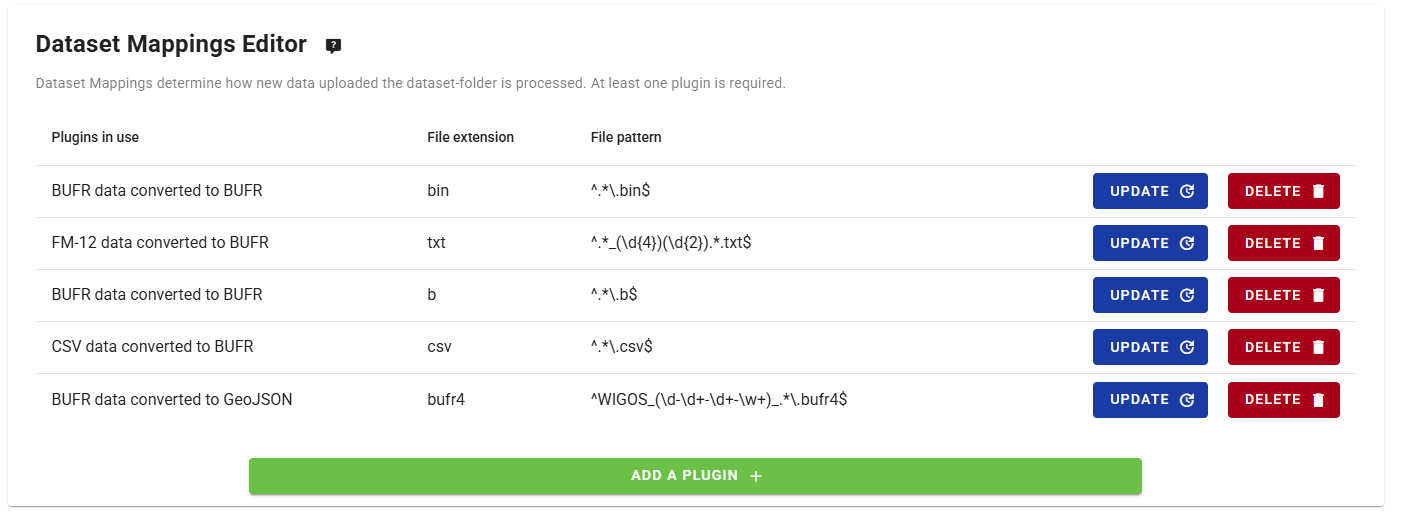
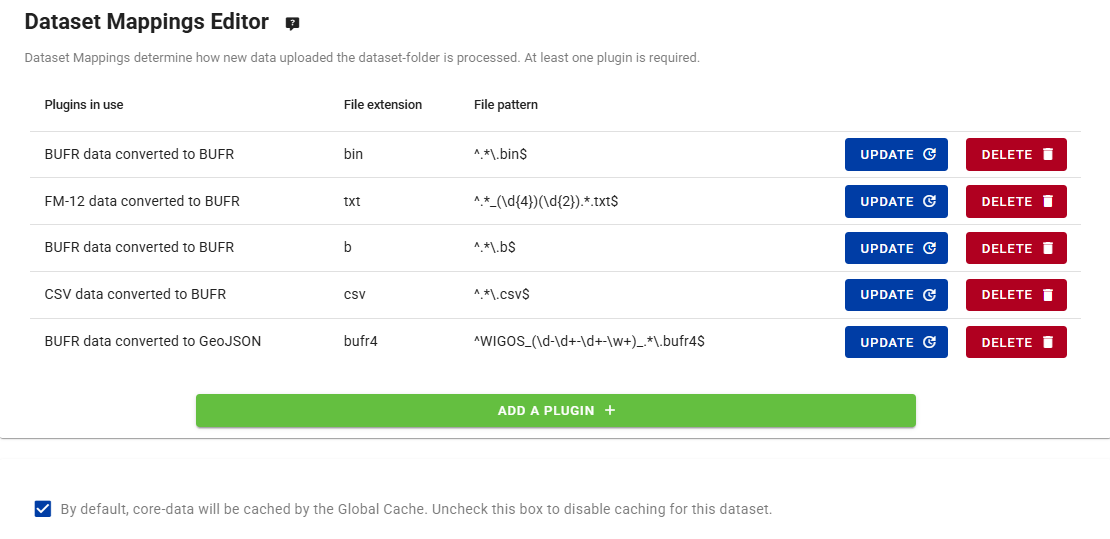
prepare docs update (#1033)
* prepare docs update

* add new troubleshooting section

* update list of containers

* fix troubleshooting, update screenshots

* update screenshot

* improve text around security

* updates

* align with WMO webpage

* add bufr-overrides example

* mention option to disable caching

* Update troubleshooting.rst

* Update BUFR-overrides explanation in documentation

Clarify the usage of BUFR-overrides in the documentation.

* Update administration.rst

* Revise WIS2 documentation for clarity and detail

Reworded and clarified sections about WIS2, including its objectives and principles.

* Update getting-started.rst

* Fix formatting and wording in public-services-setup.rst

* Update setup-datasets.rst

* fix minor grammar issue

---------

diff --git a/docs/source/community/troubleshooting.rst b/docs/source/community/troubleshooting.rst
@@ -74,6 +74,8 @@ Please check the logs for the following containers:
 - `wis2box-management`
 - `wis2box-minio`
 - `wis2box-api`
+- `elasticsearch`
+- `mosquitto`
 
 Common causes: 
 
@@ -160,3 +162,105 @@ If the wis2box UI is available but no datasets are visible, and the message ``Di
 This means the collection ``discovery-metadata`` in the wisbox API is empty, due to no datasets having been created or Docker volume ``wis2box_project_es-data`` was removed.
 
 Consult the user guide for instructions on creating datasets.
+
+Elasticsearch not starting: "java.lang.OutOfMemoryError: Java heap space"
+-------------------------------------------------------------------------
+
+If you notice Elasticsearch failing to start and the logs contain the message ``java.lang.OutOfMemoryError: Java heap space``, 
+this indicates that the Elasticsearch container does not have enough memory allocated to it.
+
+You can edit the Edit the Elasticsearch configuration in ``docker-compose.yml`` to increase the memory assigned to Elasticsearch as follows:
+
+First stop the wis2box-stack:
+
+.. code-block:: bash
+
+   python3 wis2box-ctl.py stop
+
+Then edit docker-compose.yml and replace:
+
+.. code-block:: yaml
+
+   - "ES_JAVA_OPTS=-Xms512m -Xmx512m"
+
+with:
+
+.. code-block:: yaml
+
+   - "ES_JAVA_OPTS=-Xms1g -Xmx1g"
+
+and also  replace:
+
+.. code-block:: yaml
+
+   mem_limit: 1.5g
+   memswap_limit: 1.5g
+
+with:
+
+.. code-block:: yaml
+
+   mem_limit: 2g
+   memswap_limit: 2g
+
+Then start the wis2box-stack again:
+
+.. code-block:: bash
+
+   python3 wis2box-ctl.py start
+
+Make sure that your host has enough free memory for the new settings.
+
+MinIO unable to start SFTP server to sftp id_rsa missing
+---------------------------------------------------------
+
+When the following error appears in the logs of the `wis2box-minio` container:
+
+.. code-block:: bash
+
+   FATAL unable to start SFTP server: invalid arguments passed, private key file is not accessible: open /home/miniouser/.ssh/id_rsa: no such file or directory
+
+It means that the SSH keys required to start the SFTP server are missing.
+
+If you used the `wis2box-create-config.py` script to create your configuration files, the SSH keys are generated automatically in the directory `.ssh` inside the directory defined by `WIS2BOX_HOST_DATADIR` (from wis2box-1.2)
+
+If required, manually create the SSH keys as follows:
+
+.. code-block:: bash
+
+   mkdir -p <your-wis2box-host-datadir>/.ssh
+   ssh-keygen -t rsa -b 4096 -f <your-wis2box-host-datadir>/minio/.ssh/id_rsa -N "" -q
+
+Make sure to replace ``<your-wis2box-host-datadir>`` with the actual path defined by ``WIS2BOX_HOST_DATADIR`` in `wis2box.env`.
+
+SFTP support in MinIO can be disabled to allow wis2box to start without SSH keys. Data ingest via SFTP will not be possible as a result.
+
+To do so, first stop wis2box:
+
+.. code-block:: bash
+
+   python3 wis2box-ctl.py stop
+
+Then edit ``docker-compose.yml`` and replace:
+
+.. code-block:: yaml
+
+   command: server --quiet --console-address ":9001" --sftp="address=:8022" --sftp="ssh-private-key=/home/miniouser/.ssh/id_rsa" /data
+
+With:
+
+.. code-block:: yaml
+
+   command: server --quiet --console-address ":9001" /data
+
+After making the changes, start wis2box again:
+
+.. code-block:: bash
+
+   python3 wis2box-ctl.py start
+
+And check if the all the services are now running as expected:
+
+.. code-block:: bash
+
+   python3 wis2box-ctl.py status

diff --git a/docs/source/reference/wis2.rst b/docs/source/reference/wis2.rst
@@ -1,24 +1,25 @@
 WIS2
 ====
 
-The `WMO Information System`_ is a coordinated global infrastructure responsible for telecommunications
-and data management functions and is owned and operated by WMO Members.
+The `WMO Information System 2.0`_ (WIS2) is the framework for WMO data sharing for all WMO domains and disciplines. The Commission for Observation, Infrastructure and Information Systems (`INFCOM`_) approved the technical specifications of WIS 2.0 and its implementation plan in October 2022.
 
-WIS provides an integrated approach suitable for all WMO Programmes to meet the requirements for routine
-collection and automated dissemination of observed data and products, as well as data discovery, access,
-and retrieval services for weather, climate, water, and related data produced by centres and Member
-countries in the framework of any WMO Programme. It is capable of exchanging large data volumes, such
-as new ground and satellite-based systems, finer resolutions in numerical weather prediction, and
-hydrological models and their applications. These data and products must be available to National
-Hydrological and Meteorological Services (NHMS), but also national disaster authorities for more timely
-alerts where and when needed.
+WIS2 will gradually replace the Global Telecommunication System (GTS).
 
-WIS is a vital data communications backbone for integrating the diverse real-time and non-real-time high
-priority data sets, regardless of location.
+WIS2 was designed to support the WMO Unified Data policy and the Global Basic Observing Network (GBON), and to make data sharing between WMO Members simple, effective and cost-efficient.
+The idea that *no Member should be left behind* and the objective of lowering the barrier to adoption has been at the core of WIS2 development.
 
-Further documentation on WIS2 can be found at the following links:
+These objectives inspire the principles underpinning the WIS2 technical framework, such as adopting Open Standards and Web technologies to facilitate sharing of increasing variety and volume of real-time data.  
 
-* `WIS Overview`_
+The `Manual`_ on the WMO Information System (WMO-No.1060), Volume II contains standard and recommended practices, procedures, and specifications.
 
-.. _`WMO Information System`: https://community.wmo.int/activity-areas/wis
-.. _`WIS Overview`: https://community.wmo.int/activity-areas/wis/wis-overview
+The `Guide`_ to the WMO Information System (WMO-No.1061), Volume II provides additional information concerning practices, procedures, 
+and specifications that Members are invited to follow or implement in establishing and conducting their arrangements in compliance with the WMO Technical Regulations 
+and in developing meteorological and hydrological data services.
+
+For more information on WIS2, please refer to the `WIS2 Overview`_ on the WMO community website.
+
+.. _`WMO Information System 2.0`: https://community.wmo.int/site/knowledge-hub/programmes-and-initiatives/wmo-information-system-wis
+.. _`INFCOM`: https://community.wmo.int/site/knowledge-hub/governance/infcom
+.. _`Manual`: https://community.wmo.int/node/37558
+.. _`Guide`: https://community.wmo.int/node/37510
+.. _`WIS2 Overview`: https://community.wmo.int/site/knowledge-hub/programmes-and-initiatives/wmo-information-system-wis/wis2-overview

diff --git a/docs/source/user/getting-started.rst b/docs/source/user/getting-started.rst
@@ -16,9 +16,54 @@ When choosing the environment for the wis2box, consider the following:
 * In order for the wis2box instance to function as a WIS2 Node, HTTP and MQTT ports on the instance need to be accessible over the public Internet
 * Ensure that the system providing input data can access the wis2box instance
 
-.. note::
-    
-    Before exposing the wis2box to the Internet, please review the 'security considerations' section in the :ref:`public-services-setup` section. 
+.. important::
+
+  When using a wis2box instance as a WIS2 Node, it is **not recommended to use a host within your internal network**. Since a wis2box instance must be exposed to the public Internet in order to operate as a WIS2 Node, it is strongly recommended to decouple deployment from your internal network.
+
+  Please consider setting up wis2box on cloud infrastructure or in another suitably isolated, Internet-facing environment such as a **perimeter network (DMZ)** and setup a secure method to **push** data from your internal network to the wis2box instance.
+
+  Before exposing the wis2box to the Internet, please review the 'security considerations' section in the :ref:`public-services-setup` section. 
+
+
+External resources used by wis2box
+----------------------------------
+
+Make sure that wis2box can access content from *GitHub*, *GitHub Container Registry*, and *Docker Hub*; to pull the required Docker images and updates.
+
+To verify WIS2 compliance, wis2box will use configurations, schemas and supporting files on *iana.org* and *codes.wmo.int* which needs to be reachable from the wis2box instance at runtime.
+
+The following domains must be reachable from your instance for wis2box to function correctly:
+
+.. list-table::
+  :header-rows: 1
+  :widths: 30 70
+
+  * - Domain
+    - Description
+  * - ``ghcr.io``
+    - GitHub Container Registry
+  * - ``pkg-containers.githubusercontent.com``
+    - GitHub Packages for containers
+  * - ``containers.githubusercontent.com``
+    - GitHub-hosted container resources
+  * - ``github.com``
+    - GitHub repository access
+  * - ``api.github.com``
+    - GitHub API access
+  * - ``registry-1.docker.io``
+    - Docker Hub registry
+  * - ``auth.docker.io``
+    - Docker Hub authentication
+  * - ``index.docker.io``
+    - Docker Hub index
+  * - ``hub.docker.com``
+    - Docker Hub website
+  * - ``iana.org``
+    - Standards reference
+  * - ``codes.wmo.int``
+    - WMO code registry
+  * - ``oscar.wmo.int``
+    - WMO OSCAR database
 
 Network requirements
 --------------------

diff --git a/docs/source/user/setup-datasets.rst b/docs/source/user/setup-datasets.rst
@@ -170,24 +170,34 @@ If you selected a template, the data mappings plugins will be pre-populated with
 For example, if the "weather/surface-based-observations/synop" template is selected, the data mappings plugins will be pre-populated with the following plugins:
 
 .. image:: ../_static/wis2box-webapp-dataset_editor_synop_plugins.png
-   :width: 800
+   :width: 1000
    :alt: wis2box webapp dataset editor page, data mappings plugins pre-defined for synop dataset.
+
+.. note::
+
+   If  "core" is selected as a data policy, data will be cached by the WIS2 Global Cache by default. Uncheck the box below the "Data Mappings" section if you wish for data NOT to be cached by the WIS2 Global Cache.
+   
+   In this case, users will directly download core data from your HTTP storage endpoint, which must be able to handle the expected data traffic and be accessible to any incoming connections.
 
 If "other" is selected as the template, add at least one data mappings plugin to the dataset by clicking the "Add a plugin" button:
 
 .. image:: ../_static/wis2box-webapp-dataset_editor_add_plugin.png
-   :width: 800
+   :width: 1000
    :alt: wis2box webapp dataset editor page, add a plugin
 
 To publish data without any transformation or data validation, select the "Universal" plugin:
 
 .. image:: ../_static/wis2box-webapp-dataset_editor_universal_plugin.png
-   :width: 800
+   :width: 700
    :alt: wis2box webapp dataset editor page, universal plugin
 
 Verify that the "File Extension" and "File Pattern" are set to match the data files that will be uploaded to the `wis2box-incoming` bucket in MinIO storage.
 
 Note that the "File Pattern" may be used to extract additional metadata from the file name, such as the datetime for the published data.
+
+.. note::
+
+   See the :ref:`extending-wis2box` section for more information on available data mappings plugins and how to create custom plugins.
 
 Publishing the dataset
 ----------------------

diff --git a/docs/source/user/public-services-setup.rst b/docs/source/user/public-services-setup.rst
@@ -22,9 +22,14 @@ Please ensure that you follow these best practices to ensure your wis2box-instan
 * Use SSL/TLS encryption to secure your services
 * Consider customizing the default web configuration defined in ``nginx/nginx.conf`` to expose only the services to be shared with the public
 
+.. important::
+
+  It is recommended to **push data** from your internal network to the wis2box host environment, rather than allowing the wis2box instance to pull data from the internal network.
+  Make sure to limit your firewall to strictly required inbound and outbound connections only, following the "principle of least privilege".
+
 The wis2box development team is not responsible for the security of your wis2box-instance and it is your responsibility to ensure that your wis2box instance is secure.
 
-GitHub issues and discussions provide a resource and forum to discuss general wis2box features, bugs and updates.  For specific security related questions, please write to ``wis2-support at wmo.int``.
+GitHub issues and discussions provide a resource and forum to discuss general wis2box features, bugs and updates. For specific security related questions, please write to ``wis2-support at wmo.int``.
 
 Connecting your instance to the WIS2 network
 --------------------------------------------

diff --git a/docs/source/reference/running/data-pipeline-plugins.rst b/docs/source/reference/running/data-pipeline-plugins.rst
@@ -166,6 +166,18 @@ A typical BUFR4 plugin workflow definition would be defined as follows:
          notify: true  # trigger GeoJSON publishing for API and UI
          file-pattern: '^.*\.bin$'
 
+This plugin allows for overriding and updating various BUFR elements prior to data publication.
+
+For example, to correct the station elevation for a specific WIGOS Station Identifier and set the BUFR header centre to ``98`` for all messages, add the following to the dataset mapping configuration:
+
+.. code-block:: yaml
+
+   bufr_overrides: 
+        "0-20000-0-16344": 
+            "#1#heightOfStationGroundAboveMeanSeaLevel": 150
+        all:
+            "bufrHeaderCentre": 98
+
 .. _cap-message-data-plugin:
 
 ``wis2box.data.cap_message.CAPMessageData``

diff --git a/docs/source/reference/monitoring/index.rst b/docs/source/reference/monitoring/index.rst
@@ -32,12 +32,16 @@ Loki logging
 
 The logs of the following Docker containers are sent to Loki:
 
-- mosquitto
-- mqp-publisher
-- wis2box
+- wis2box-management
 - wis2box-api
 - wis2box-auth
 - wis2box-ui
+- wis2box-minio
+- wis2box-webapp
+- wis2downloader
+- elasticsearch
+- mosquitto
+- nginx
 
 The default retention period for Loki logs is 10 days. 
 This value can be modified in the Loki configuration at ``loki/loki-config.yml``. 

diff --git a/docs/source/reference/administration.rst b/docs/source/reference/administration.rst
@@ -58,7 +58,8 @@ A default wis2box installation utilizes the following ports for public services:
 Public services
 ^^^^^^^^^^^^^^^
 
-- ``80``: Web application, API application, storage
+- ``80``: web proxy for UI, webapp, API and storage
+- ``443``: web proxy for UI, webapp, API and storage (if SSL/TLS certs are provided)
 - ``1883``: Message broker via MQTT
 - ``8884``: Message broker via MQTT/WebSockets
 
